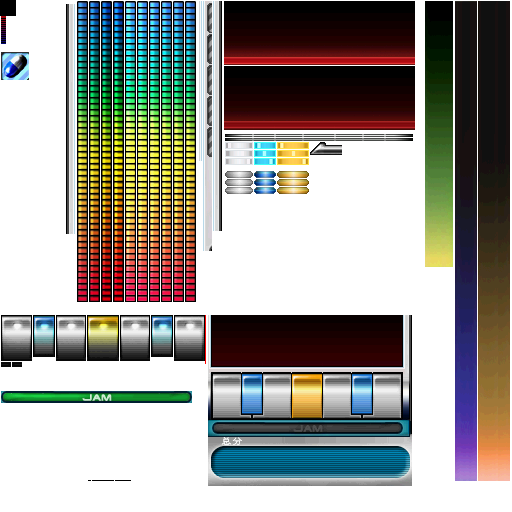
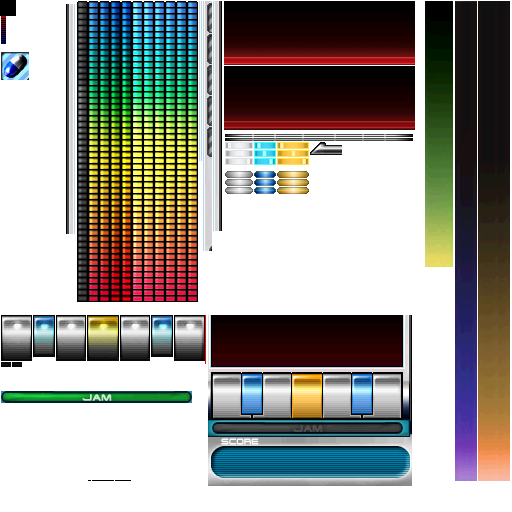
Sprite alpha blending on XML and switch to English(MY client) sprites.

Changed region(s): [[0.125, 0.0, 0.4062, 0.5938], [0.4375, 0.8438, 0.5, 0.875]]

diff --git a/src/org/open2jam/render/SkinParser.java b/src/org/open2jam/render/SkinParser.java
@@ -133,6 +133,7 @@ public class SkinParser extends DefaultHandler
                     break;
                 }
                 s.setScale(sx, sy);
+                
                 frame_buffer.add(s);
             }break;
             case sprite:{
@@ -147,9 +148,15 @@ public class SkinParser extends DefaultHandler
                     break;
                 }
 
+                        
                 SpriteList sl = new SpriteList(framespeed);
                 sl.addAll(frame_buffer);
-
+                
+                // TODO: change to blendmode for theme customizability.
+                Boolean alpha = false;
+                if(atts.containsKey("alpha")) alpha = Boolean.parseBoolean(atts.get("alpha"));
+                for (Sprite s : sl) s.setBlendAlpha(alpha);
+                
                 sprite_buffer.put(id, sl);
 
                 frame_buffer.clear();
@@ -263,14 +270,10 @@ public class SkinParser extends DefaultHandler
         }
         else if(id.equals("EFFECT_LONGFLARE")){
             SpriteList s = sprite_buffer.get(atts.get("sprite"));
-            // FIXME put this in the skin xml
-            for(Sprite p : s)p.setBlendAlpha(true);
             e = new AnimatedEntity(s,0,0);
         }
         else if(id.equals("EFFECT_CLICK")){
             SpriteList s = sprite_buffer.get(atts.get("sprite"));
-            // FIXME put this in the skin xml
-            for(Sprite p : s)p.setBlendAlpha(true);
             e = new AnimatedEntity(s,0, 0, false);
         }
         else if(id.startsWith("PRESSED_NOTE_")){

diff --git a/src/org/open2jam/render/entities/Entity.java b/src/org/open2jam/render/entities/Entity.java
@@ -69,10 +69,10 @@ public class Entity implements Copyable<Entity>
     }
 
     /**
-     * Request that this entity move itself based on a certain ammount
+     * Request that this entity move itself based on a certain amount
      * of time passing.
      *
-     * @param delta The ammount of time that has passed in milliseconds
+     * @param delta The amount of time that has passed in milliseconds
      */
     public void move(double delta) {
         // update the location of the entity based on move speeds
